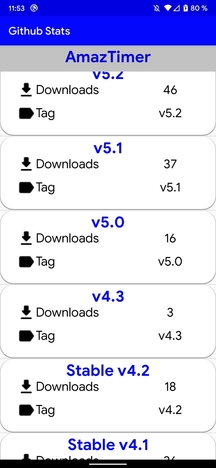
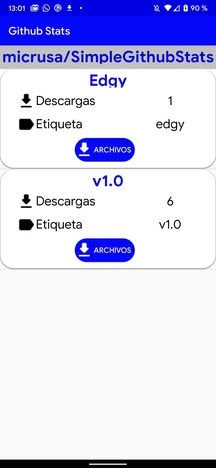
Add assets menu & option to download assets & improved layouts

diff --git a/app/src/main/java/me/micrusa/githubstats/ui/adapter/ReleaseAdapter.java b/app/src/main/java/me/micrusa/githubstats/ui/adapter/ReleaseAdapter.java
@@ -1,10 +1,12 @@
 package me.micrusa.githubstats.ui.adapter;
 
 import android.content.Context;
+import android.content.Intent;
 import android.view.LayoutInflater;
 import android.view.View;
 import android.view.ViewGroup;
 import android.widget.ArrayAdapter;
+import android.widget.Button;
 import android.widget.TextView;
 
 import org.json.JSONArray;
@@ -17,12 +19,16 @@ import java.util.ArrayList;
 import me.micrusa.githubstats.R;
 import me.micrusa.githubstats.objects.RepoRelease;
 import me.micrusa.githubstats.objects.realm.Repo;
+import me.micrusa.githubstats.ui.ReleasesAssets;
 
 public class ReleaseAdapter extends ArrayAdapter<RepoRelease> {
 
     public ReleaseAdapter(Context context, ArrayList<RepoRelease> release) {
         super(context, 0, release);
     }
+
+    private TextView name, downloads, tag;
+    private Button download;
 
     @Override
     public View getView(int position, View convertView, ViewGroup parent) {
@@ -31,9 +37,9 @@ public class ReleaseAdapter extends ArrayAdapter<RepoRelease> {
         if (convertView == null)
             convertView = LayoutInflater.from(getContext()).inflate(R.layout.item_release, parent, false);
 
-        TextView name = convertView.findViewById(R.id.release_name);
+        init(convertView);
         name.setText(release.getName());
-        TextView downloads = convertView.findViewById(R.id.release_downloads);
+        tag.setText(release.getTag());
         try {
             int downloadsNo = 0;
             for(int i = 0; i < release.getAssets().length(); i++){
@@ -45,10 +51,21 @@ public class ReleaseAdapter extends ArrayAdapter<RepoRelease> {
             Logger.error(e);
         }
 
-        TextView tag = convertView.findViewById(R.id.release_tag);
-        tag.setText(release.getTag());
+        download.setOnClickListener(v -> {
+            Intent intent = new Intent(v.getContext(), ReleasesAssets.class);
+            intent.putExtra(ReleasesAssets.EXTRA_ASSETS, release.getAssets().toString());
+            intent.putExtra(ReleasesAssets.EXTRA_NAME, release.getName());
+            v.getContext().startActivity(intent);
+        });
 
         return convertView;
+    }
+
+    private void init(View convertView){
+        name = convertView.findViewById(R.id.release_name);
+        downloads = convertView.findViewById(R.id.release_downloads);
+        tag = convertView.findViewById(R.id.release_tag);
+        download = convertView.findViewById(R.id.release_download);
     }
 
 }

diff --git a/app/src/main/java/me/micrusa/githubstats/ui/ReleasesAssets.java b/app/src/main/java/me/micrusa/githubstats/ui/ReleasesAssets.java
@@ -1,0 +1,59 @@
+package me.micrusa.githubstats.ui;
+
+import android.os.Bundle;
+import android.widget.ArrayAdapter;
+import android.widget.ListView;
+import android.widget.TextView;
+
+import androidx.appcompat.app.AppCompatActivity;
+
+import org.json.JSONArray;
+import org.json.JSONException;
+import org.json.JSONObject;
+import org.tinylog.Logger;
+
+import java.util.ArrayList;
+
+import me.micrusa.githubstats.R;
+import me.micrusa.githubstats.objects.ReleaseAsset;
+import me.micrusa.githubstats.ui.adapter.AssetAdapter;
+
+public class ReleasesAssets extends AppCompatActivity {
+
+    public static final String EXTRA_ASSETS = "assets";
+    public static final String EXTRA_NAME = "name";
+
+    public void onCreate(Bundle savedInstanceState){
+        super.onCreate(savedInstanceState);
+        setContentView(R.layout.activity_repo_releases);
+
+        String assets = getIntent().getStringExtra(EXTRA_ASSETS);
+        String name = getIntent().getStringExtra(EXTRA_NAME);
+
+        TextView nameText = findViewById(R.id.releases_repo_name);
+        nameText.setText(name);
+        try {
+            fillList(new JSONArray(assets));
+        } catch (JSONException e) {
+            Logger.error(e);
+        }
+    }
+
+    private void fillList(JSONArray assets) throws JSONException {
+        ArrayList<ReleaseAsset> assetsArr = new ArrayList<>();
+
+        for(int i = 0; i < assets.length(); i++){
+            ReleaseAsset asset = new ReleaseAsset();
+            JSONObject assetObj = assets.getJSONObject(i);
+            asset.setName((String) assetObj.get("name"));
+            asset.setDownloadURL((String) assetObj.get("browser_download_url"));
+            asset.setDownloads((int) assetObj.get("download_count"));
+            assetsArr.add(asset);
+        }
+
+        AssetAdapter adapter = new AssetAdapter(this, assetsArr);
+        ListView list = findViewById(R.id.listReleases);
+        list.setAdapter(adapter);
+    }
+
+}

diff --git a/app/src/main/java/me/micrusa/githubstats/ui/adapter/AssetAdapter.java b/app/src/main/java/me/micrusa/githubstats/ui/adapter/AssetAdapter.java
@@ -1,0 +1,48 @@
+package me.micrusa.githubstats.ui.adapter;
+
+import android.content.Context;
+import android.view.LayoutInflater;
+import android.view.View;
+import android.view.ViewGroup;
+import android.widget.ArrayAdapter;
+import android.widget.Button;
+import android.widget.TextView;
+
+import java.util.ArrayList;
+
+import me.micrusa.githubstats.R;
+import me.micrusa.githubstats.objects.ReleaseAsset;
+import me.micrusa.githubstats.objects.RepoRelease;
+import me.micrusa.githubstats.utils.utils;
+
+public class AssetAdapter extends ArrayAdapter<ReleaseAsset> {
+
+    public AssetAdapter(Context context, ArrayList<ReleaseAsset> array) {
+        super(context, 0, array);
+    }
+
+    private TextView name, downloads;
+    private Button download;
+
+    @Override
+    public View getView(int position, View convertView, ViewGroup parent) {
+        final ReleaseAsset asset = getItem(position);
+
+        if (convertView == null)
+            convertView = LayoutInflater.from(getContext()).inflate(R.layout.item_release_asset, parent, false);
+        init(convertView);
+
+        name.setText(asset.getName());
+        downloads.setText(String.valueOf(asset.getDownloads()));
+        download.setOnClickListener(v -> utils.openLink(asset.getDownloadURL(), v.getContext()));
+
+        return convertView;
+    }
+
+    private void init(View convertView){
+        name = convertView.findViewById(R.id.asset_name);
+        downloads = convertView.findViewById(R.id.asset_downloads);
+        download = convertView.findViewById(R.id.asset_download);
+    }
+
+}

diff --git a/app/src/main/java/me/micrusa/githubstats/ui/AppInfo.java b/app/src/main/java/me/micrusa/githubstats/ui/AppInfo.java
@@ -3,14 +3,13 @@ package me.micrusa.githubstats.ui;
 import androidx.appcompat.app.AppCompatActivity;
 
 import android.annotation.SuppressLint;
-import android.content.Intent;
-import android.net.Uri;
 import android.os.Bundle;
 import android.widget.Button;
 import android.widget.TextView;
 
 import me.micrusa.githubstats.BuildConfig;
 import me.micrusa.githubstats.R;
+import me.micrusa.githubstats.utils.utils;
 
 public class AppInfo extends AppCompatActivity {
 
@@ -27,17 +26,11 @@ public class AppInfo extends AppCompatActivity {
         Button paypal = findViewById(R.id.paypal);
 
         github.setOnClickListener(view -> {
-            openLink("https://github.com/micrusa/SimpleGithubStats");
+            utils.openLink("https://github.com/micrusa/SimpleGithubStats", this);
         });
 
         paypal.setOnClickListener(view -> {
-            openLink("https://www.paypal.me/migueelcs");
+            utils.openLink("https://www.paypal.me/migueelcs", this);
         });
-    }
-
-    private void openLink(String url){
-        Intent intent = new Intent(android.content.Intent.ACTION_VIEW);
-        intent.setData(Uri.parse(url));
-        startActivity(intent);
     }
 }

diff --git a/app/src/main/java/me/micrusa/githubstats/MainApplication.java b/app/src/main/java/me/micrusa/githubstats/MainApplication.java
@@ -9,12 +9,12 @@ import io.realm.Realm;
 import io.realm.RealmConfiguration;
 
 public class MainApplication extends Application {
-  
-  private static Application mApp;
-  
-  public static Application getApp(){
-    return mApp;
-  }
+
+    private static Application mApp;
+
+    public static Application getApp() {
+        return mApp;
+    }
 
     @Override
     public void onCreate() {
@@ -24,7 +24,7 @@ public class MainApplication extends Application {
         mApp = this;
     }
 
-    private void setupRealm(){
+    private void setupRealm() {
         Realm.init(this);
         RealmConfiguration config = new RealmConfiguration.Builder()
                 .name("GithubStats.realm")
@@ -33,7 +33,7 @@ public class MainApplication extends Application {
         Realm.setDefaultConfiguration(config);
     }
 
-    private void setupEasyprefs(){
+    private void setupEasyprefs() {
         new Prefs.Builder()
                 .setContext(this)
                 .setMode(ContextWrapper.MODE_PRIVATE)

diff --git a/app/src/main/java/me/micrusa/githubstats/objects/ReleaseAsset.java b/app/src/main/java/me/micrusa/githubstats/objects/ReleaseAsset.java
@@ -1,0 +1,33 @@
+package me.micrusa.githubstats.objects;
+
+public class ReleaseAsset {
+
+    private String name;
+    private String downloadURL;
+    private int downloads;
+
+    public String getName() {
+        return name;
+    }
+
+    public void setName(String name) {
+        this.name = name;
+    }
+
+    public String getDownloadURL() {
+        return downloadURL;
+    }
+
+    public void setDownloadURL(String downloadURL) {
+        this.downloadURL = downloadURL;
+    }
+
+    public int getDownloads() {
+        return downloads;
+    }
+
+    public void setDownloads(int downloads) {
+        this.downloads = downloads;
+    }
+
+}

diff --git a/app/src/main/java/me/micrusa/githubstats/utils/utils.java b/app/src/main/java/me/micrusa/githubstats/utils/utils.java
@@ -1,5 +1,9 @@
 package me.micrusa.githubstats.utils;
 
+import android.content.Context;
+import android.content.Intent;
+import android.net.Uri;
+
 import com.pixplicity.easyprefs.library.Prefs;
 
 import me.micrusa.githubstats.Constants;
@@ -12,5 +16,11 @@ public class utils {
 
     public static int getCacheTime(){
         return Prefs.getInt(Constants.KEY_CACHETIME, 3600) * 1000; //To millis
+    }
+
+    public static void openLink(String url, Context context){
+        Intent intent = new Intent(Intent.ACTION_VIEW);
+        intent.setData(Uri.parse(url));
+        context.startActivity(intent);
     }
 }

diff --git a/README.md b/README.md
@@ -3,7 +3,7 @@
 A simple github stats app for checking users, repos and release stats
 
 ## Screenshots
-<img width="216" height="468" src="https://github.com/micrusa/SimpleGithubStats/raw/master/ss1.jpg"/><img width="216" height="468" src="https://github.com/micrusa/SimpleGithubStats/raw/master/ss2.jpg"/><img width="216" height="468" src="https://github.com/micrusa/SimpleGithubStats/raw/master/ss3.jpg"/>
+<img width="216" height="468" src="https://github.com/micrusa/SimpleGithubStats/raw/master/ss1.jpg"/><img width="216" height="468" src="https://github.com/micrusa/SimpleGithubStats/raw/master/ss2.jpg"/><img width="216" height="468" src="https://github.com/micrusa/SimpleGithubStats/raw/master/ss3.jpg"/><img width="216" height="468" src="https://github.com/micrusa/SimpleGithubStats/raw/master/ss4.jpg"/>
 
 ## How does it work?
 It uses Github API to get all data. To avoid being rate-limited it has a simple cache that gets updated when it haven't been checked for a time that you can select in settings
